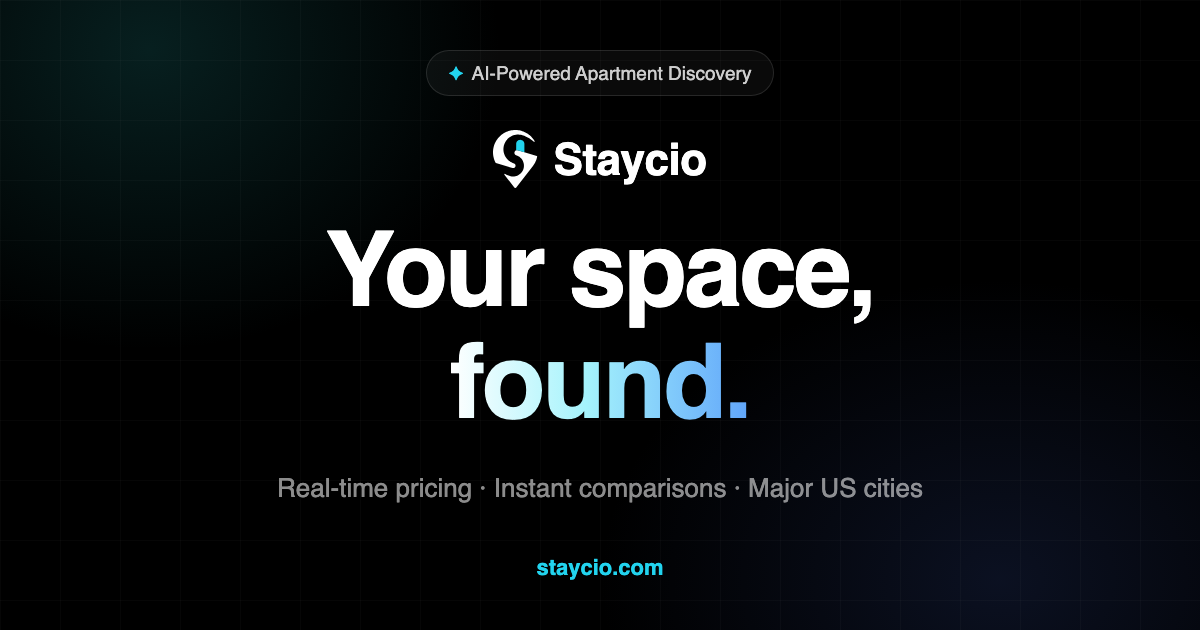
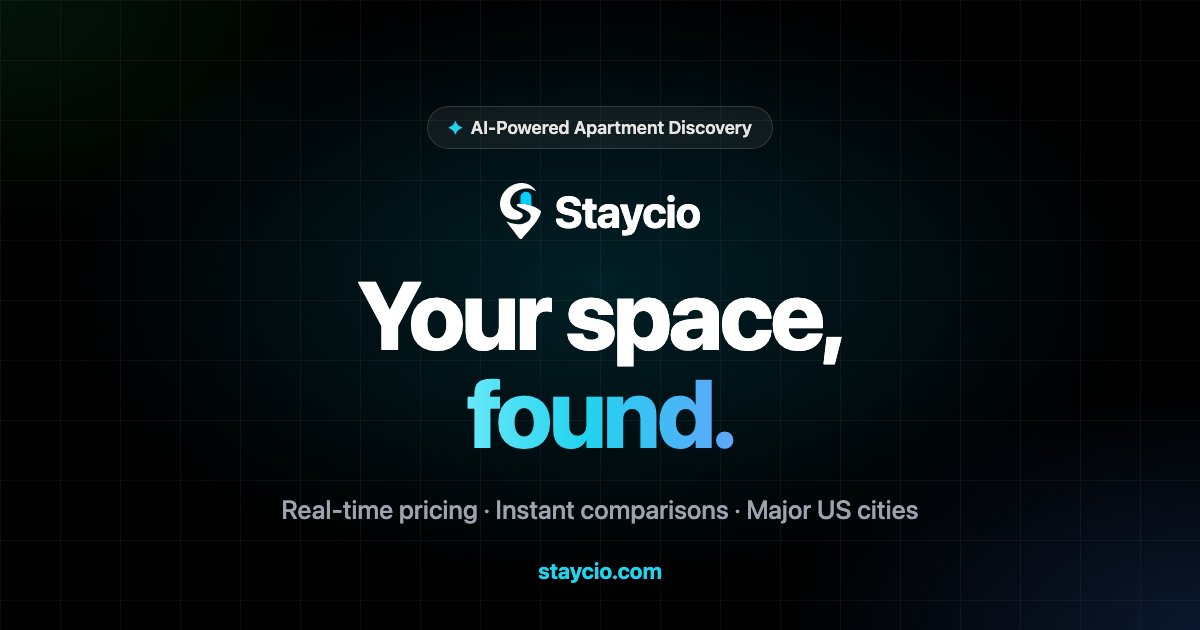
Brand: switch to the new Staycio mark everywhere
Replace the generated pin-and-S geometry with paths traced from the
approved artwork ("Staycio - New Logo.png", 2026-10-02): a softer S with
a rounded cyan door (#05CFFD) and a pointed pin. Everything that showed
the old mark is regenerated from the same paths:

- StaycioMark component (header, footer, auth pages, building OG images)
- public/brand SVGs (white, and black with a darker door for light
  backgrounds)
- src/app/icon.svg favicon (follows the colour scheme), favicon.ico
  (16/32/48), apple-icon.png, PWA icons incl. the maskable one
- public/og-image.png social card, re-rendered with the new mark

scripts/brand/mark.py built the old geometry and is replaced by
trace_mark.py, which traces a PNG into the component's paths.

diff --git a/src/components/brand/StaycioMark.tsx b/src/components/brand/StaycioMark.tsx
@@ -1,18 +1,18 @@
 /**
  * The Staycio mark: a location pin split by an S-shaped path, with a cyan
- * door in the upper bowl. Geometry is generated (circles + half-planes, so
- * the channel is an even width where the bowls meet) — edit
- * scripts/brand/mark.py, not these paths. Static copies live in public/brand/
- * and src/app/icon.svg.
+ * door in the upper bowl. Paths are traced from the approved artwork
+ * ("Staycio - New Logo.png", 2026-10-02) by scripts/brand/trace_mark.py; run
+ * that script against a new PNG rather than editing these numbers. Static
+ * copies live in public/brand/, src/app/icon.svg and the PNG icons.
  */
 
-export const MARK_VIEWBOX = "0 0 76.18 100";
-export const MARK_ASPECT = 76.18 / 100;
+export const MARK_VIEWBOX = "0 0 73.42 100";
+export const MARK_ASPECT = 0.7342;
 export const MARK_BODY_PATH =
-  "M23.15,76.96 20.60,75.62 20.30,75.60 20.00,75.68 19.75,75.87 19.57,76.12 19.50,76.42 19.52,76.73 19.65,77.01 36.78,99.17 37.33,99.68 38.03,99.96 38.78,99.97 39.47,99.74 39.83,99.49 40.13,99.17 68.92,61.92 70.30,60.01 71.44,58.22 72.48,56.37 73.42,54.47 74.25,52.52 75.04,50.29 75.70,48.02 76.17,45.97 76.16,45.66 76.07,45.41 75.85,45.13 75.53,44.96 42.64,34.91 41.78,34.76 40.92,34.78 40.06,34.96 39.27,35.30 38.50,35.84 37.86,36.51 37.37,37.31 37.05,38.19 36.92,39.10 36.98,40.03 37.23,40.92 37.66,41.76 38.29,42.52 39.06,43.12 39.78,43.48 42.05,44.31 43.70,45.12 45.55,46.28 47.24,47.65 48.83,49.29 50.16,51.03 51.32,53.00 52.19,55.00 52.74,56.75 53.12,58.55 53.32,60.37 53.34,62.20 53.18,64.03 52.84,65.84 52.36,67.49 51.68,69.20 50.67,71.13 49.44,72.93 48.01,74.57 46.39,76.03 44.62,77.30 42.71,78.35 40.59,79.21 38.49,79.78 36.45,80.09 34.50,80.18 32.44,80.05 30.41,79.69 28.04,79.00 25.56,78.06ZM4.43,56.37 4.65,56.65 4.98,56.82 33.76,65.61 34.41,65.70 35.08,65.68 35.72,65.56 36.35,65.35 36.93,65.04 37.46,64.64 37.91,64.16 38.29,63.62 38.59,63.00 38.79,62.33 38.87,61.64 38.84,60.94 38.70,60.27 38.44,59.62 38.08,59.02 37.63,58.49 37.07,58.02 36.42,57.65 33.84,56.72 31.85,55.82 30.35,55.00 28.92,54.07 27.30,52.86 25.68,51.42 24.28,49.96 23.00,48.39 22.11,47.11 21.23,45.66 20.50,44.28 19.87,42.86 19.32,41.40 18.82,39.77 18.47,38.26 18.20,36.72 18.01,34.87 17.96,32.85 18.06,30.99 18.29,29.13 18.66,27.31 19.20,25.37 19.85,23.61 20.62,21.91 21.59,20.15 22.61,18.58 23.74,17.10 24.98,15.70 26.32,14.40 27.87,13.12 29.39,12.04 30.99,11.07 32.94,10.09 35.10,9.24 37.19,8.62 39.47,8.17 41.64,7.93 43.82,7.88 45.99,8.02 48.29,8.38 50.70,8.98 53.94,10.10 57.08,11.42 59.87,12.81 62.56,14.36 65.40,16.26 67.87,18.14 70.53,20.41 70.83,20.50 71.09,20.49 71.38,20.38 71.59,20.22 71.74,20.00 71.83,19.70 71.81,19.39 71.71,19.14 70.82,17.68 69.76,16.12 68.62,14.61 67.42,13.16 66.14,11.77 64.80,10.44 63.39,9.18 61.94,8.00 60.60,7.01 59.03,5.96 57.41,4.99 55.74,4.10 54.04,3.30 52.29,2.58 50.51,1.94 48.72,1.40 47.11,0.99 45.26,0.61 43.39,0.32 41.52,0.12 39.63,0.02 37.74,0.01 35.86,0.09 33.98,0.26 32.11,0.53 30.26,0.88 28.42,1.33 26.63,1.86 25.05,2.41 23.30,3.11 21.58,3.90 19.91,4.77 18.28,5.72 16.70,6.75 15.17,7.85 13.70,9.02 12.45,10.12 11.09,11.43 9.80,12.81 8.58,14.25 7.43,15.74 6.35,17.29 5.35,18.89 4.43,20.53 3.69,22.02 2.93,23.74 2.25,25.50 1.65,27.30 1.15,29.12 0.74,30.96 0.42,32.82 0.19,34.68 0.06,36.34 0.00,38.22 0.04,40.11 0.16,41.99 0.38,43.87 0.69,45.73 1.10,47.57 1.59,49.40 2.17,51.19 2.84,52.96 3.59,54.69Z";
+  "M35.94,99.85C35.30,99.63 34.61,99.07 34.00,98.31C33.01,97.04 30.32,93.54 27.65,90.05C26.25,88.21 24.62,86.09 24.03,85.34C15.18,74.05 10.80,68.27 11.21,68.45C11.31,68.49 12.13,68.85 13.05,69.26C22.38,73.38 32.62,74.61 40.82,72.59C45.27,71.50 49.35,69.45 51.70,67.11C55.90,62.94 56.02,57.19 51.98,53.00C49.58,50.50 46.20,48.56 37.96,44.93C33.71,43.06 32.07,42.23 31.15,41.49C29.04,39.79 29.75,37.88 32.73,37.22C34.05,36.92 39.02,36.93 41.48,37.23C49.51,38.19 57.20,40.50 63.95,43.96C67.96,46.03 71.23,48.37 72.95,50.42L73.42,50.99L72.89,52.82C70.84,59.90 67.15,66.55 61.25,73.84C59.96,75.43 56.09,79.92 53.34,83.02C50.15,86.60 45.67,91.74 42.47,95.47C40.76,97.47 39.19,99.23 38.98,99.38C38.20,99.96 36.82,100.17 35.94,99.85ZM25.09,65.36C24.83,65.33 23.86,65.20 22.94,65.07C10.38,63.22 2.35,54.86 0.28,41.48C-0.05,39.34 -0.02,34.44 0.33,32.38C1.65,24.76 5.14,18.06 10.84,12.23C15.71,7.25 21.02,3.89 27.43,1.74C31.33,0.43 35.91,-0.17 39.91,0.10C44.47,0.41 48.12,1.37 52.03,3.28C56.57,5.50 60.07,8.45 62.67,12.25C63.48,13.44 64.22,14.72 64.06,14.65C64.00,14.62 63.29,14.21 62.50,13.74C59.32,11.84 55.77,10.55 52.03,9.95C50.16,9.64 45.86,9.58 43.74,9.83C35.88,10.73 28.79,14.43 23.84,20.20C21.60,22.82 20.12,25.37 19.14,28.28C18.46,30.31 18.30,31.36 18.30,33.79C18.30,35.72 18.33,36.06 18.62,37.19C19.37,40.17 20.59,42.20 22.95,44.44C24.89,46.27 26.12,47.03 31.92,49.94C37.48,52.73 39.13,53.93 40.05,55.84C40.39,56.55 40.46,56.83 40.50,57.75C40.58,59.58 40.01,60.85 38.42,62.33C37.00,63.66 34.78,64.63 31.94,65.16C30.97,65.34 26.26,65.48 25.09,65.36Z";
 export const MARK_DOOR_PATH =
-  "M39.96,34.40 40.05,34.67 40.31,34.84 41.50,34.75 42.47,34.87 53.58,38.25 53.86,38.23 54.06,38.06 54.14,37.81 54.14,23.98 54.06,22.90 53.69,21.51 53.04,20.19 52.15,19.06 51.03,18.11 49.81,17.45 48.48,17.04 47.10,16.89 45.71,17.02 44.38,17.41 43.15,18.06 42.07,18.93 41.18,20.00 40.74,20.75 40.38,21.59 40.13,22.47 39.99,23.37Z";
-export const MARK_DOOR_COLOR = "#22D3EE";
+  "M54.59,40.10C49.94,38.48 43.19,37.20 38.22,36.99L36.46,36.91L36.50,30.34C36.55,23.07 36.53,23.20 37.38,21.35C38.51,18.89 40.75,16.91 43.44,16.00C44.32,15.71 44.55,15.68 46.31,15.68C48.07,15.68 48.29,15.71 49.23,16.02C52.54,17.11 54.87,19.59 55.81,23.05C56.07,24.00 56.07,24.14 56.08,32.33C56.08,36.90 56.08,40.64 56.08,40.63C56.08,40.62 55.41,40.38 54.59,40.10Z";
+export const MARK_DOOR_COLOR = "#05CFFD";
 
 interface StaycioMarkProps {
   className?: string;
@@ -30,8 +30,8 @@ export function StaycioMark({ className, title }: StaycioMarkProps) {
       aria-hidden={title ? undefined : true}
       aria-label={title}
     >
-      <path fill="currentColor" d={MARK_BODY_PATH} />
-      <path fill={MARK_DOOR_COLOR} d={MARK_DOOR_PATH} />
+      <path fill="currentColor" fillRule="evenodd" d={MARK_BODY_PATH} />
+      <path fill={MARK_DOOR_COLOR} fillRule="evenodd" d={MARK_DOOR_PATH} />
     </svg>
   );
 }

diff --git a/scripts/brand/trace_mark.py b/scripts/brand/trace_mark.py
@@ -1,0 +1,51 @@
+"""Trace the approved Staycio mark PNG into the SVG paths the site uses.
+
+    python3 -m venv .venv && .venv/bin/pip install potracer pillow numpy
+    .venv/bin/python scripts/brand/trace_mark.py <out-dir> [source.png]
+
+Source: white mark with a cyan door on a black background (the "Final" export
+in ~/Desktop/Staycio Logo). Writes <out-dir>/new-mark.svg and new-mark.json;
+paste the json's body/door/viewBox into src/components/brand/StaycioMark.tsx
+and regenerate public/brand/*.svg, src/app/icon.svg and the PNG icons from
+the same paths (see the 2026-10-02 commit that introduced this mark).
+"""
+import numpy as np, potrace, sys, json
+from PIL import Image
+src = sys.argv[2] if len(sys.argv) > 2 else "/Users/examodels/Desktop/Staycio Logo/Final/Staycio - New Logo.png"
+im = np.asarray(Image.open(src).convert("RGB")).astype(int)
+r, g, b = im[...,0], im[...,1], im[...,2]
+white = (r > 128) & (g > 128) & (b > 128)              # body
+cyan  = (b > 150) & (g > 120) & (r < 120)              # door
+ys, xs = np.where(white | cyan)
+y0, y1, x0, x1 = ys.min(), ys.max()+1, xs.min(), xs.max()+1
+print("bbox", x0, y0, x1, y1, "size", x1-x0, y1-y0)
+def trace(mask):
+    sub = mask[y0:y1, x0:x1]
+    print('fg pixels', int(sub.sum()), 'of', sub.size)
+    bm = potrace.Bitmap(~sub)
+    path = bm.trace(turdsize=200, alphamax=1.0, opticurve=True, opttolerance=0.2)
+    d = []
+    for curve in path:
+        sp = curve.start_point
+        d.append(f"M{sp.x:.2f},{sp.y:.2f}")
+        for seg in curve:
+            if seg.is_corner:
+                d.append(f"L{seg.c.x:.2f},{seg.c.y:.2f}L{seg.end_point.x:.2f},{seg.end_point.y:.2f}")
+            else:
+                d.append(f"C{seg.c1.x:.2f},{seg.c1.y:.2f} {seg.c2.x:.2f},{seg.c2.y:.2f} {seg.end_point.x:.2f},{seg.end_point.y:.2f}")
+        d.append("Z")
+    return "".join(d), len(path)
+body, nb = trace(white)
+door, nd = trace(cyan)
+W, H = x1-x0, y1-y0
+# normalise to a 100-high viewBox like the old mark
+s = 100.0 / H
+import re
+def scale(d):
+    return re.sub(r"-?\d+\.\d+", lambda m: f"{float(m.group())*s:.2f}", d)
+body_s, door_s = scale(body), scale(door)
+vb = f"0 0 {W*s:.2f} 100"
+print("curves body/door:", nb, nd, "viewBox", vb, "path chars", len(body_s), len(door_s))
+svg = f'<svg xmlns="http://www.w3.org/2000/svg" viewBox="{vb}"><path fill="#FFFFFF" fill-rule="evenodd" d="{body_s}"/><path fill="#05CFFD" fill-rule="evenodd" d="{door_s}"/></svg>'
+open(sys.argv[1]+"/new-mark.svg", "w").write(svg)
+json.dump({"viewBox": vb, "body": body_s, "door": door_s, "aspect": W/H}, open(sys.argv[1]+"/new-mark.json","w"))
